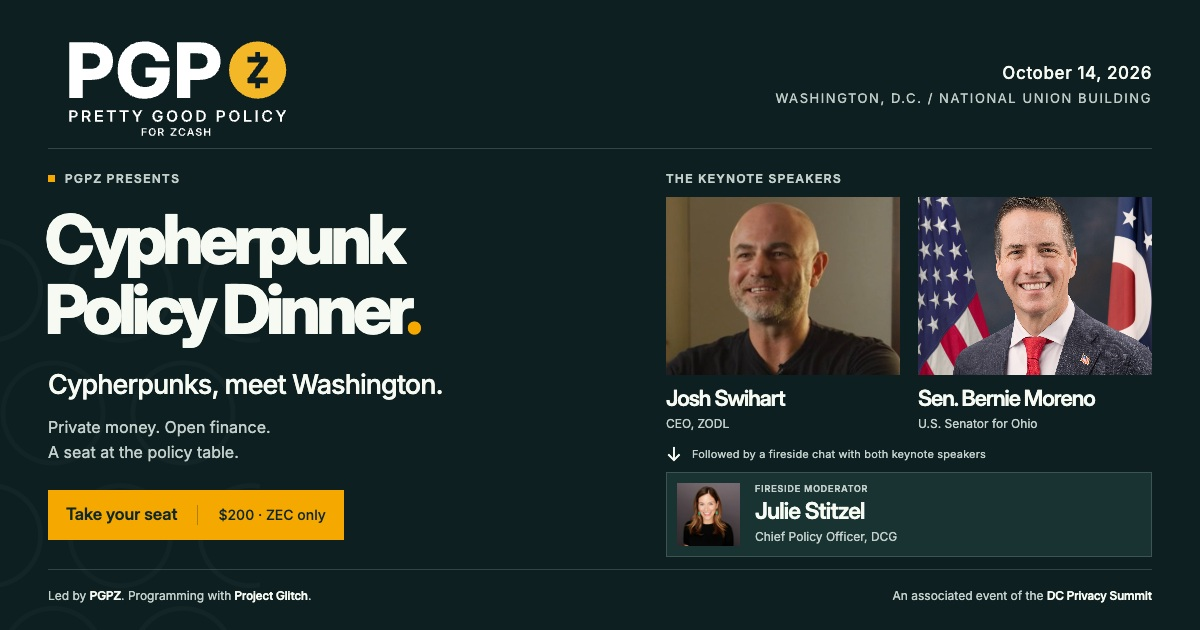
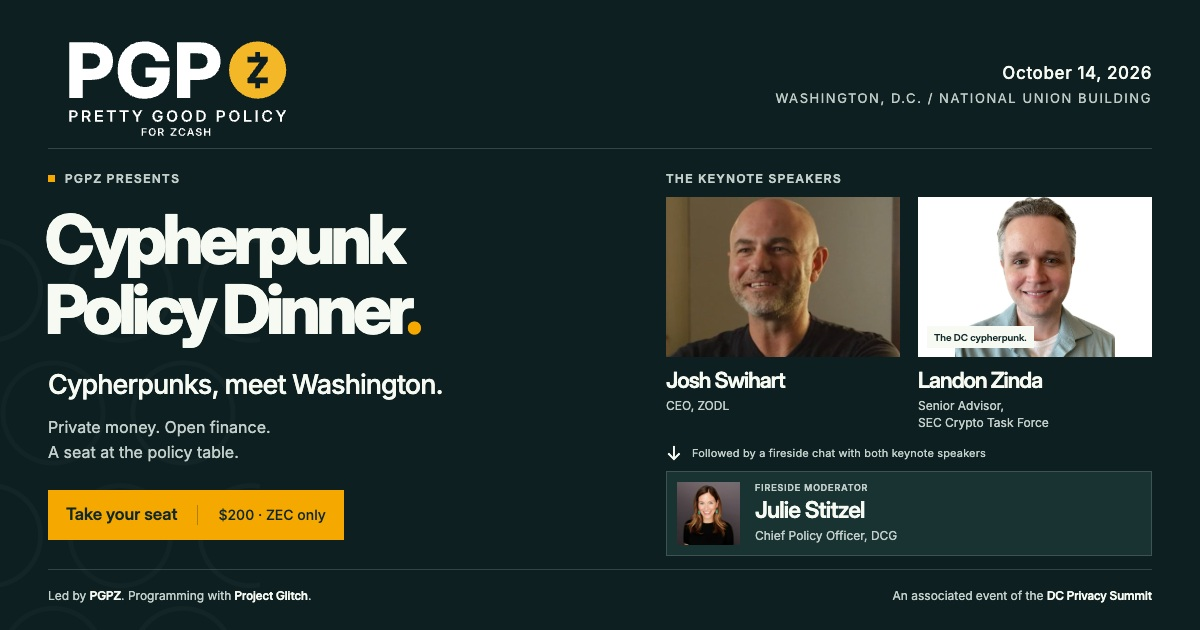
Feature Landon Zinda as CPD keynote and DC cypherpunk

Changed region(s): [[0.555, 0.3016, 0.9867, 0.9048]]

diff --git a/cpd.html b/cpd.html
@@ -5,7 +5,7 @@
     <meta name="viewport" content="width=device-width,initial-scale=1" />
     <meta
       name="description"
-      content="PGPZ presents the Cypherpunk Policy Dinner. Josh Swihart, Senator Bernie Moreno, and Julie Stitzel. October 14, 2026, Washington, DC. Privacy, policy, and a seat at the table. $200, ZEC only."
+      content="PGPZ presents the Cypherpunk Policy Dinner. Josh Swihart meets DC cypherpunk Landon Zinda, with Julie Stitzel moderating. October 14, 2026, Washington, DC. Privacy, policy, and a seat at the table. $200, ZEC only."
     />
     <meta
       property="og:title"
@@ -13,7 +13,7 @@
     />
     <meta
       property="og:description"
-      content="Keynotes from Josh Swihart and Senator Bernie Moreno. A fireside chat moderated by Julie Stitzel. Convened by PGPZ, with programming in collaboration with Project Glitch. October 14, 2026. $200, ZEC only."
+      content="From building private money to shaping policy: keynotes from Josh Swihart and Landon Zinda, followed by a fireside chat with Julie Stitzel. Led by PGPZ, with Project Glitch programming. October 14, 2026. $200, ZEC only."
     />
     <meta
       property="og:image"
@@ -23,7 +23,7 @@
     <meta property="og:image:height" content="630" />
     <meta
       property="og:image:alt"
-      content="PGPZ presents the Cypherpunk Policy Dinner, October 14, 2026, featuring Josh Swihart, Senator Bernie Moreno, and Julie Stitzel."
+      content="PGPZ presents the Cypherpunk Policy Dinner, October 14, 2026, featuring Josh Swihart, Landon Zinda — the DC cypherpunk — and Julie Stitzel."
     />
     <meta property="og:url" content="https://dcprivacysummit.org/cpd.html" />
     <meta property="og:type" content="website" />
@@ -165,22 +165,25 @@
                   <p>CEO, ZODL</p>
                 </article>
                 <article class="speaker">
-                  <div class="portrait portrait-moreno">
+                  <div class="portrait portrait-zinda">
                     <img
-                      src="images/cpd/bernie-moreno.jpg"
-                      width="2400"
-                      height="3000"
-                      alt="Senator Bernie Moreno"
+                      src="images/cpd/landon-zinda.jpg"
+                      width="2367"
+                      height="2367"
+                      alt="Landon Zinda"
                       fetchpriority="high"
                     /><span class="portrait-label">Keynote</span>
                   </div>
-                  <h3>Sen. Bernie Moreno</h3>
-                  <p>U.S. Senator for Ohio</p>
+                  <h3>Landon Zinda</h3>
+                  <p>
+                    Senior Advisor, SEC Crypto Task Force<br />Counsel to the
+                    Chairman
+                  </p>
                 </article>
               </div>
               <div class="fireside-connector">
                 <span aria-hidden="true">↓</span> Followed by a fireside chat
-                with both keynote speakers
+                with Josh and Landon
               </div>
               <article class="moderator">
                 <img
@@ -229,18 +232,38 @@
               </h2>
             </div>
             <div class="purpose-copy">
-              <p class="lead">Yes, a cypherpunk dinner. In Washington.</p>
-              <p>
-                Crypto’s founding ideas deserve a place in the policy
-                conversation: privacy as a right, control over your own money,
-                and financial systems open to everyone.
+              <p class="lead">Meet the DC cypherpunk.</p>
+              <p
+                class="career-path"
+                aria-label="Landon Zinda’s career: Capitol Hill, Coin Center, SEC"
+              >
+                <span>Capitol Hill</span><span aria-hidden="true">→</span>
+                <span>Coin Center</span><span aria-hidden="true">→</span>
+                <span>SEC</span>
               </p>
               <p>
-                PGPZ is convening the builders, advocates, and policy leaders
-                who can move that conversation forward. Project Glitch brings
-                its programming and cypherpunk perspective to the evening. The
-                ambition: make financial privacy a starting point for policy,
-                rather than an afterthought.
+                <strong>Landon Zinda</strong> knows Washington from the inside
+                and crypto from first principles. From advising lawmakers on the
+                Hill to serving as Coin Center’s Policy Director and now on the
+                SEC’s Crypto Task Force, his career brings cypherpunk ideas into
+                the rooms where policy takes shape.
+              </p>
+              <p>
+                At Coin Center, he
+                <a
+                  href="https://coincenter.org/how-congress-should-and-should-not-approach-defi/"
+                  target="_blank"
+                  rel="noopener"
+                  >defended the freedom to publish code</a
+                >, the right to privacy, and the principles behind
+                permissionless DeFi. Now he joins <strong>Josh Swihart</strong>,
+                CEO of ZODL, for an evening that puts the builders of private
+                money and the people shaping policy at the same table.
+              </p>
+              <p>
+                PGPZ convenes. Project Glitch brings its programming and
+                cypherpunk perspective. The ambition: make financial privacy a
+                starting point for policy, rather than an afterthought.
               </p>
               <p>
                 <strong
@@ -326,11 +349,14 @@
                     >6:30 PM / Dinner &amp; keynotes</time
                   >
                 </div>
-                <h3>Two perspectives. Shared space.</h3>
+                <h3>Private money meets the DC cypherpunk.</h3>
                 <p>
                   A seated dinner with keynote addresses from
                   <strong>Josh Swihart</strong>, CEO of ZODL, and
-                  <strong>Senator Bernie Moreno</strong>.
+                  <strong>Landon Zinda</strong>, Senior Advisor to the SEC’s
+                  Crypto Task Force and Counsel to the Chairman. Building the
+                  technology. Bringing its founding principles into the policy
+                  conversation.
                 </p>
               </li>
               <li>
@@ -339,10 +365,10 @@
                 </div>
                 <h3>Bring the conversation together.</h3>
                 <p>
-                  Both keynote speakers join a fireside chat moderated by
-                  <strong>Julie Stitzel</strong>, Chief Policy Officer at
-                  Digital Currency Group (DCG). An evening built for exchange
-                  across technology and policy.
+                  <strong>Josh and Landon</strong> join a fireside chat
+                  moderated by <strong>Julie Stitzel</strong>, Chief Policy
+                  Officer at Digital Currency Group (DCG). An evening built for
+                  exchange across technology and policy.
                 </p>
               </li>
             </ol>

diff --git a/.github/design/cpd-social-card.html b/.github/design/cpd-social-card.html
@@ -31,8 +31,10 @@
     .ticket span{font-size:14px;font-weight:500;border-left:1px solid #10282750;padding-left:20px}
     .lineup>.eyebrow{margin-bottom:11px}
     .keynotes{display:grid;grid-template-columns:1fr 1fr;gap:18px}
-    .speaker img{width:100%;height:178px;object-fit:cover;object-position:center 24%;display:block;background:#24443d}
-    .speaker.moreno img{object-position:center 18%}
+    .speaker img{width:100%;height:160px;object-fit:cover;object-position:center 24%;display:block;background:#24443d}
+    .speaker .portrait{position:relative}
+    .speaker.zinda img{object-fit:contain;object-position:center top;background:#fff}
+    .speaker .hook{position:absolute;bottom:9px;left:9px;background:#F6FAF2;color:#102827;padding:4px 7px;font-size:10px;font-weight:600;line-height:1.4}
     .speaker h2{font-size:22px;font-weight:600;letter-spacing:-.045em;margin-top:10px;line-height:1.2;white-space:nowrap}
     .speaker p{font-size:12px;color:#C2CFCA;margin-top:5px;line-height:1.4}
     .chat{font-size:11px;line-height:1.5;color:#C2CFCA;letter-spacing:.015em;margin:12px 0 8px;display:flex;gap:10px;align-items:center}
@@ -50,7 +52,7 @@
   <div class="card">
     <img class="rings" src="/images/cpd/brand/pgpz-circle-motif-on-dark.svg" alt="">
     <header>
-      <a class="brand" href="https://z.cash/"><img src="/images/cpd/brand/pgpz-primary-on-dark.svg" alt="Pretty Good Policy for Zcash"></a>
+      <a class="brand" href="https://pgpz.org/"><img src="/images/cpd/brand/pgpz-primary-on-dark.svg" alt="Pretty Good Policy for Zcash"></a>
       <p class="date">October 14, 2026 <span>Washington, D.C. / National Union Building</span></p>
     </header>
     <main>
@@ -65,7 +67,7 @@
         <p class="eyebrow">The keynote speakers</p>
         <div class="keynotes">
           <article class="speaker"><img src="/images/cpd/josh-swihart.jpg" alt="Josh Swihart"><h2>Josh Swihart</h2><p>CEO, ZODL</p></article>
-          <article class="speaker moreno"><img src="/images/cpd/bernie-moreno.jpg" alt="Senator Bernie Moreno"><h2>Sen. Bernie Moreno</h2><p>U.S. Senator for Ohio</p></article>
+          <article class="speaker zinda"><div class="portrait"><img src="/images/cpd/landon-zinda.jpg" alt="Landon Zinda"><span class="hook">The DC cypherpunk.</span></div><h2>Landon Zinda</h2><p>Senior Advisor,<br>SEC Crypto Task Force</p></article>
         </div>
         <p class="chat"><span aria-hidden="true">↓</span> Followed by a fireside chat with both keynote speakers</p>
         <article class="moderator"><img src="/images/cpd/julie-stitzel.jpg" alt="Julie Stitzel"><div><p class="eyebrow">Fireside moderator</p><h2>Julie Stitzel</h2><p>Chief Policy Officer, DCG</p></div></article>

diff --git a/css/cpd.css b/css/cpd.css
@@ -353,8 +353,8 @@ h1 {
   object-fit: cover;
   object-position: center 24%;
 }
-.portrait-moreno img {
-  object-position: center 19%;
+.portrait-zinda img {
+  object-position: center 20%;
 }
 .portrait-label {
   position: absolute;
@@ -486,6 +486,21 @@ h1 {
   font-weight: 500;
   color: var(--ink);
   line-height: 1.5;
+}
+.purpose-copy .career-path {
+  display: flex;
+  flex-wrap: wrap;
+  align-items: center;
+  gap: 8px 12px;
+  color: var(--teal);
+  font-size: 11px;
+  font-weight: 600;
+  letter-spacing: 0.025em;
+  margin-top: -4px;
+  margin-bottom: 22px;
+}
+.career-path span {
+  white-space: nowrap;
 }
 strong {
   font-weight: 600;
@@ -885,8 +900,8 @@ strong {
   .portrait img {
     object-position: center 20%;
   }
-  .portrait-moreno img {
-    object-position: center 15%;
+  .portrait-zinda img {
+    object-position: center top;
   }
   .speaker h3 {
     font-size: 23px;

diff --git a/.github/design/cpd-refresh-notes.md b/.github/design/cpd-refresh-notes.md
@@ -1,10 +1,10 @@
 # Cypherpunk Policy Dinner: PGPZ staging refresh
 
-Prepared September 11, 2026. Scope: `cpd.html`, its own stylesheet, and related assets. Production promotion remains a separate, user-reviewed action through the existing workflow.
+Prepared September 11, 2026; speaker update September 21, 2026. Scope: `cpd.html`, its own stylesheet, and related assets. Production promotion remains a separate, user-reviewed action through the existing workflow.
 
 ## Positioning
 
-PGPZ leads and convenes the event; Project Glitch remains a programming collaborator and source of cypherpunk perspective. The user supplied the keynote lineup and fireside format. The page presents privacy, self-custody, permissionless decentralized finance, and freedom to build as the event's themes; it does not attribute policy positions or endorsements to individual speakers.
+PGPZ leads and convenes the event; Project Glitch remains a programming collaborator and source of cypherpunk perspective. The user supplied the keynote lineup and fireside format. The September 21 update introduces Landon Zinda as the "DC cypherpunk," alongside Josh Swihart, with Julie Stitzel moderating their fireside chat. This is editorial event positioning, not an official title. References to Landon's advocacy for privacy, open-source software, and permissionless DeFi are explicitly anchored to his past work at Coin Center; the page does not imply SEC endorsement of the event or its themes.
 
 Existing date, venue, times, $200 price, ZEC-only payment, ZCG anchor sponsorship, ZecTix event URL, and origin/source-checked iframe resize behavior are retained. No program end time, seat availability, or exact keynote/fireside start times were invented.
 
@@ -28,12 +28,15 @@ Photo/source biography: https://consensus2026.coindesk.com/agenda/speaker/-josh-
 Asset: https://d2pasa6bkzkrjd.cloudfront.net/site/consensus2026/images/userfiles/speakers/663f6f6df06508bba1b397a2b615dabf.jpg.
 Saved as `images/cpd/josh-swihart.jpg`, 600×600. Conference speaker portrait; no explicit reusable license or required attribution found. The repository also had a lower-resolution 2026 portrait.
 
-### Senator Bernie Moreno — U.S. Senator for Ohio
+### Landon Zinda — Senior Advisor, SEC Crypto Task Force; Counsel to the Chairman
 
-Title source: https://www.moreno.senate.gov/.
-Photo source: https://commons.wikimedia.org/wiki/File:Sen._Bernie_Moreno_official_photo,_119th_Congress_(HR).jpg.
-Asset: https://upload.wikimedia.org/wikipedia/commons/e/e0/Sen._Bernie_Moreno_official_photo%2C_119th_Congress_%28HR%29.jpg.
-Saved as `images/cpd/bernie-moreno.jpg`, 2400×3000. Public-domain official U.S. Senate photograph by Rebecca Hammel / U.S. Senate Photographic Services.
+Current combined title: https://gbaglobal.org/blog/2026/05/19/digital-asset-policy-leaders-meet-in-washington-dc/ and https://www.thinkingcrypto.com/the-secs-new-crypto-tokenization-guidance-explained-with-landon-zinda/.
+Official task force appointment: https://www.sec.gov/newsroom/press-releases/2025-49; continued task force service acknowledged August 18, 2026: https://www.sec.gov/newsroom/speeches-statements/atkins-statement-regulation-crypto-assets-081826.
+Career and portrait source: https://coincenter.org/people/landon-zinda/. His prior roles include Coin Center Policy Director, Senate Banking Committee Counsel, and Legislative Director for Congressman Tom Emmer. The Coin Center profile's Policy Director heading is historical, not his current title.
+Authored work supporting the event's framing: https://coincenter.org/how-congress-should-and-should-not-approach-defi/ and https://coincenter.org/in-an-effort-to-close-perceived-loopholes-treasury-recommends-massive-expansion-of-warrantless-surveillance-and-power-to-sanction-open-source-software/.
+Asset: https://coincenter.org/wp-content/uploads/2023/03/Landon.jpg.
+Saved unmodified as `images/cpd/landon-zinda.jpg`, 2367×2367. Actual Coin Center portrait; no explicit reusable license or required attribution found. The supplied LinkedIn profile could not be retrieved; title and biography were checked against the above primary sources.
+The source composition and generated social card use the updated lineup and the "DC cypherpunk" caption.
 
 ### Julie Stitzel — Chief Policy Officer, DCG
 
@@ -49,3 +52,5 @@ The original ZecTix embed returns 404 for localhost/unapproved or missing referr
 Social preview is a browser-rendered HTML composition using the actual brand artwork and photographs. Its production-host Open Graph URL becomes available on production only when this reviewed release is promoted.
 
 Local browser checks passed at 320, 375, 390, 640, 768, 900, 1024, and 1440px: no horizontal overflow, loaded speaker images, valid section anchors. Mobile menu, Escape dismissal, automatic close after navigation, speaker link, and ticket CTA passed. Desktop/mobile screenshots inspected. Supplied brand SVGs verified byte-for-byte; original checkout handler verified unchanged apart from whitespace. HTML/CSS formatting and JavaScript syntax passed.
+
+September 21 speaker update: repeated browser checks at 320, 390, 768, 1024, and 1440px with no horizontal overflow, both keynote portraits loaded, and mobile speaker navigation working. Desktop/mobile speaker and introduction screenshots and the regenerated 1200×630 social card were visually reviewed. Page scripts, ticket iframe, government admission aside, and PGPZ link destinations were verified unchanged. Speaker names, program, metadata, and social composition all use the new lineup.
